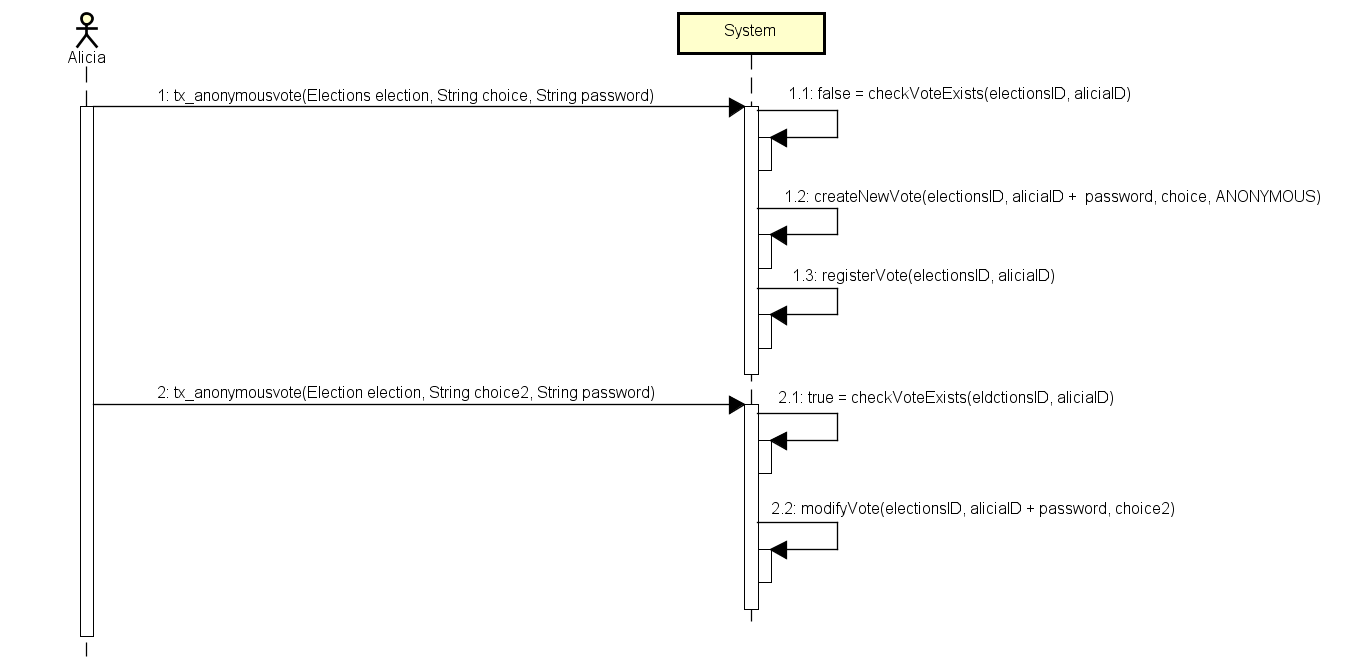
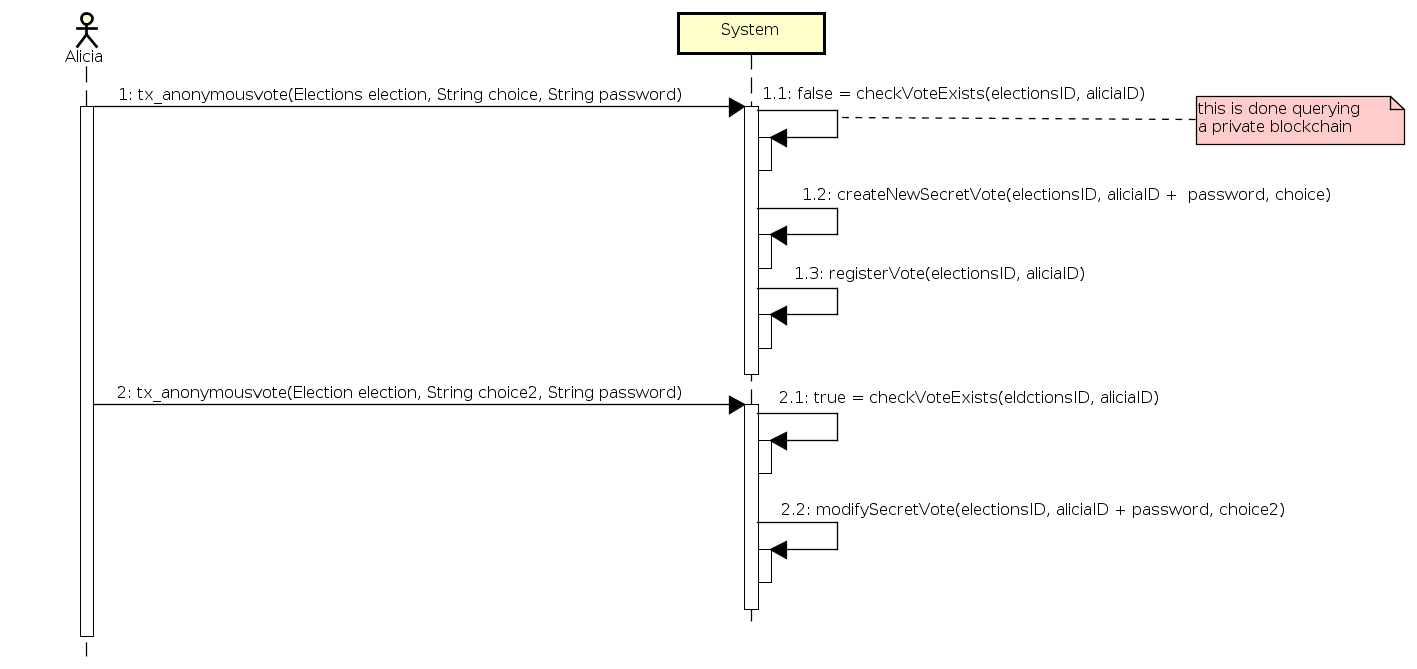
Amended Diagrams

diff --git a/README.md b/README.md
@@ -72,19 +72,21 @@ Smart contracts are defined in Hyperledger Composer as **Transaction Functions**
 - On **close elections**, count the number of votes in the ledger and change the state of the asset to the result. An important aspect is to count **public votes** as the number of citizens that politician represents *unless* the citizen has issued their own vote in that election.
 - On **public vote**, ensure the restrictions of the **Representation** asset for each of the represented citizens are respected, if they're not, null **Representation**.
 
-#### Domain Model
-
-![Domain diagram of the system](https://raw.githubusercontent.com/es2812/AgoraChain/master/Diagrams/ClassDiagram.png) 
-Domain diagram
-
 #### Privacy concerns
 
-Since it's an important principle of our system, there was a need to implement some levels of privacy in the *Anonymous vote* transaction and the *Vote* asset, which must keep a secret who the voter was.
+Since it's an important principle of our system, there was a need to implement some levels of privacy in the *Anonymous vote* transaction and the *Vote* asset, which must keep a secret who the voter was, while still keeping the rest of the asset and transaction's content public.
 
 It was decided to include a user-set password, *ballotID*, which will be used to keep the voter ID on the transaction and on the Vote asset secret. Thus, only knowledge of this password will allow someone to check the voter. The voter id on the transaction and asset relating to the *anonymous vote* will be a hash of the sum of *ballotID* and *voterID*.
 
 This solution, however, might allow a citizen to vote many times with fraudulent passwords (since there's no way to know the voterID of a vote directly without the user-provided password). For that reason, the system will also keep a parallel, private blockchain, that registers whether a voter has voted in an election. This blockchain will be accessible only to the validator nodes in the system.
 
+As a consequence, the Vote asset will be duplicated, as a PublicVote that contains its owner (that must be a Politician) and an AnonymousVote that won't keep track of its owner, but rather will have a special _secretID_ field that will allow indexing with the citizen that issued it only with the given password.
+
+
+#### Domain Model
+
+![Domain diagram of the system](https://raw.githubusercontent.com/es2812/AgoraChain/master/Diagrams/ClassDiagram.png) 
+Domain diagram
 
 #### Sequence diagrams
 
